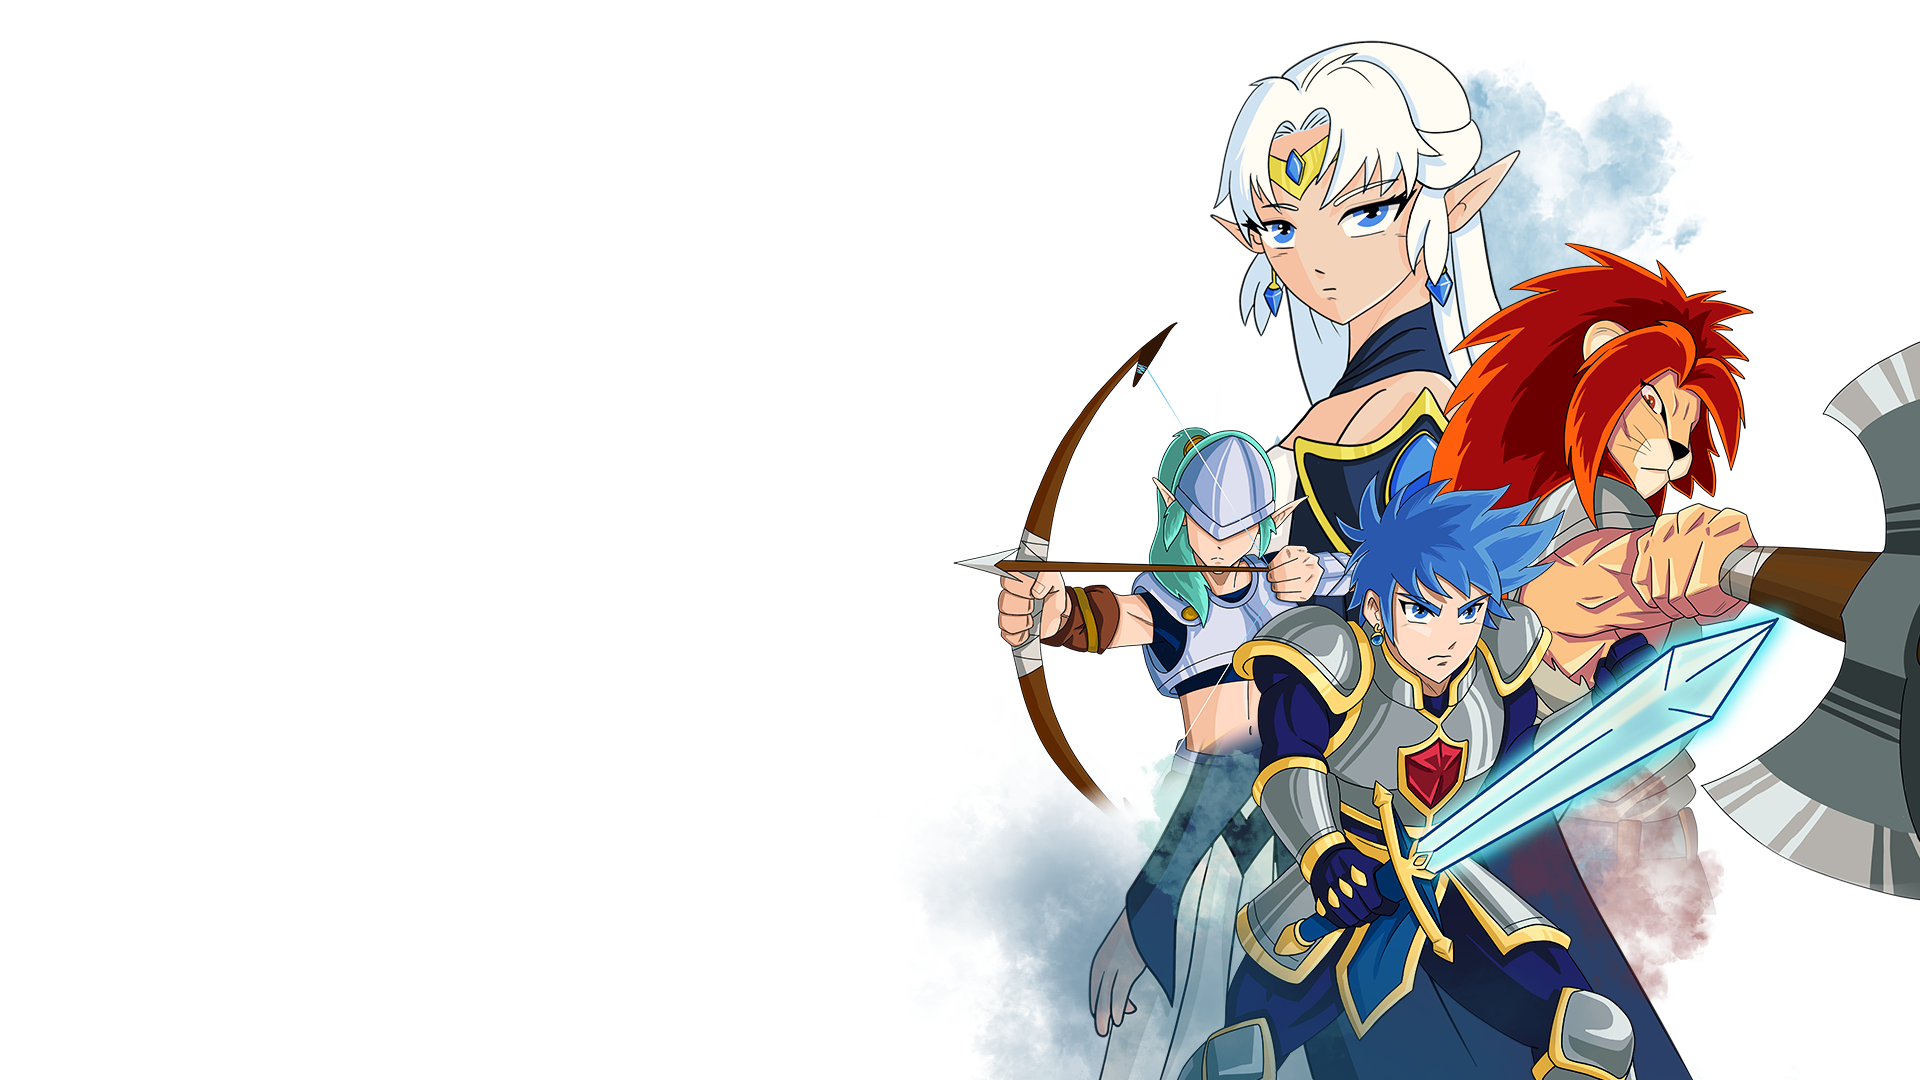
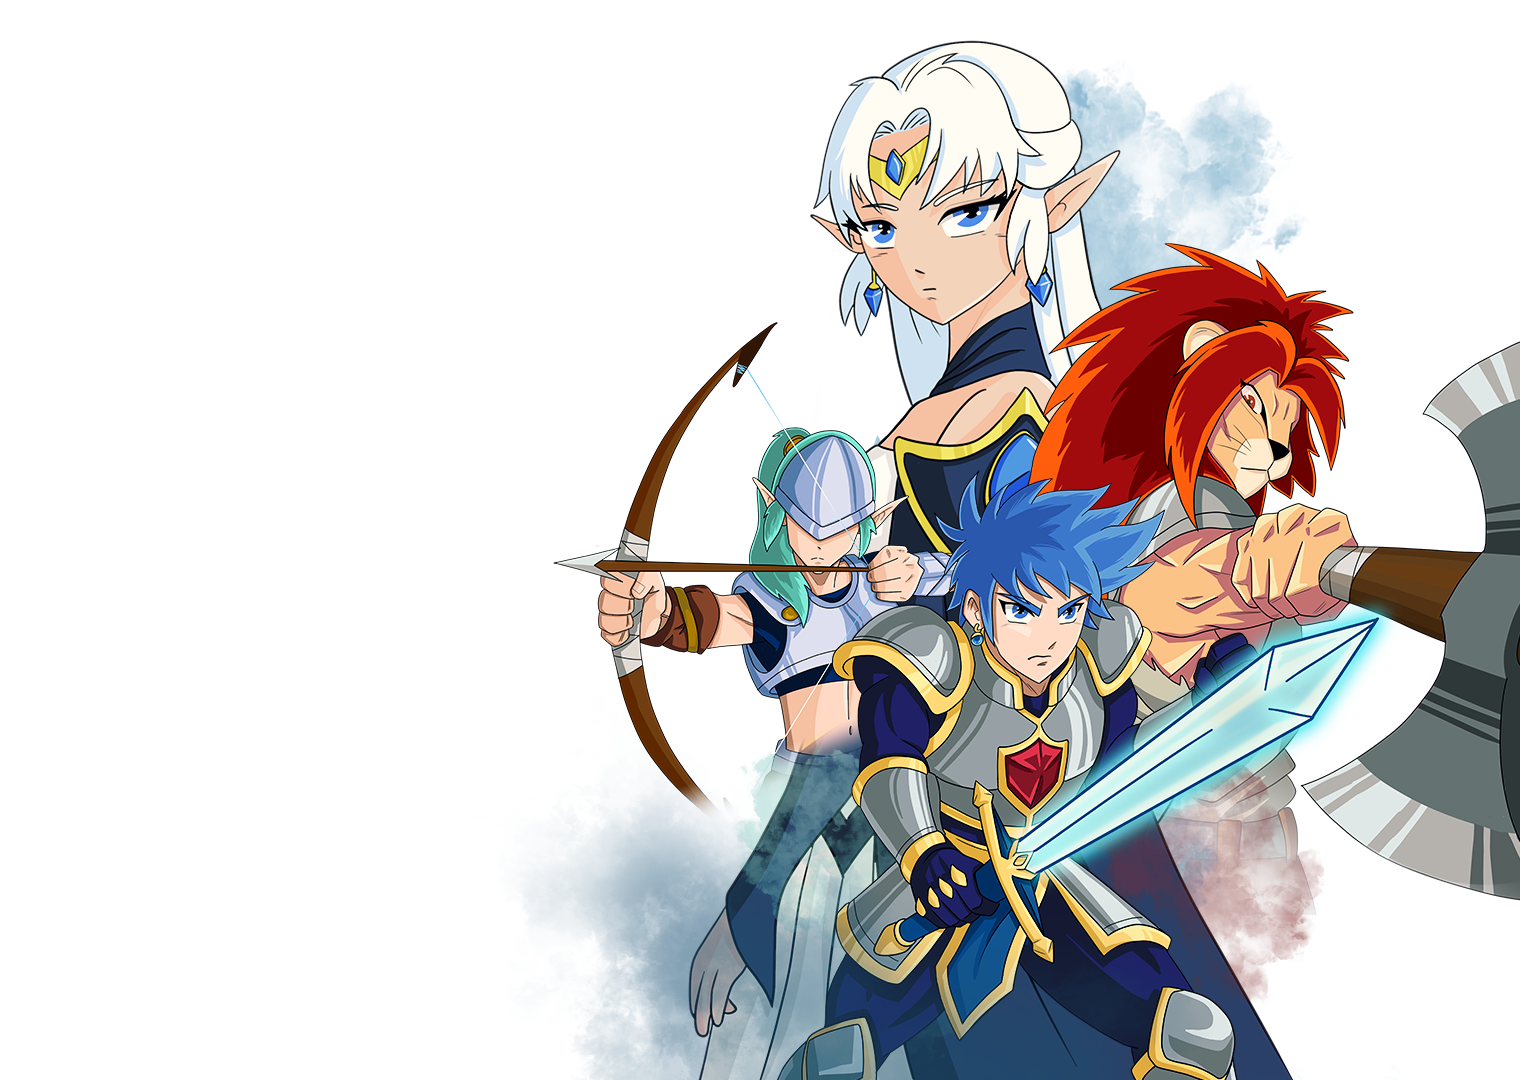
Fix mobile

diff --git a/css/responsive.css b/css/responsive.css
@@ -93,7 +93,8 @@
     .hod {height: 560px;}
     .hod .promo {max-width: 100%; right: 0%;}
     .hod .logo {margin: 10px 0px; left: 0}
-    .hod .steam {width: 50%; bottom: 35%; left: 25%;}
+    .hod .steam {width: 35%; bottom: 50%; left: 10%;}
+    .hod .trailer {width: 35%; bottom: 50%; left: 55%;}
 
     .community-section .row {margin: 0px;}
     .social-icons a { margin:10px; }

diff --git a/css/style.css b/css/style.css
@@ -639,7 +639,7 @@ p{
     position: absolute;
     right: 0px;
     bottom: 0px;
-    width: 1000px;
+    width: 820px;
 }
 
 .hod .steam {
